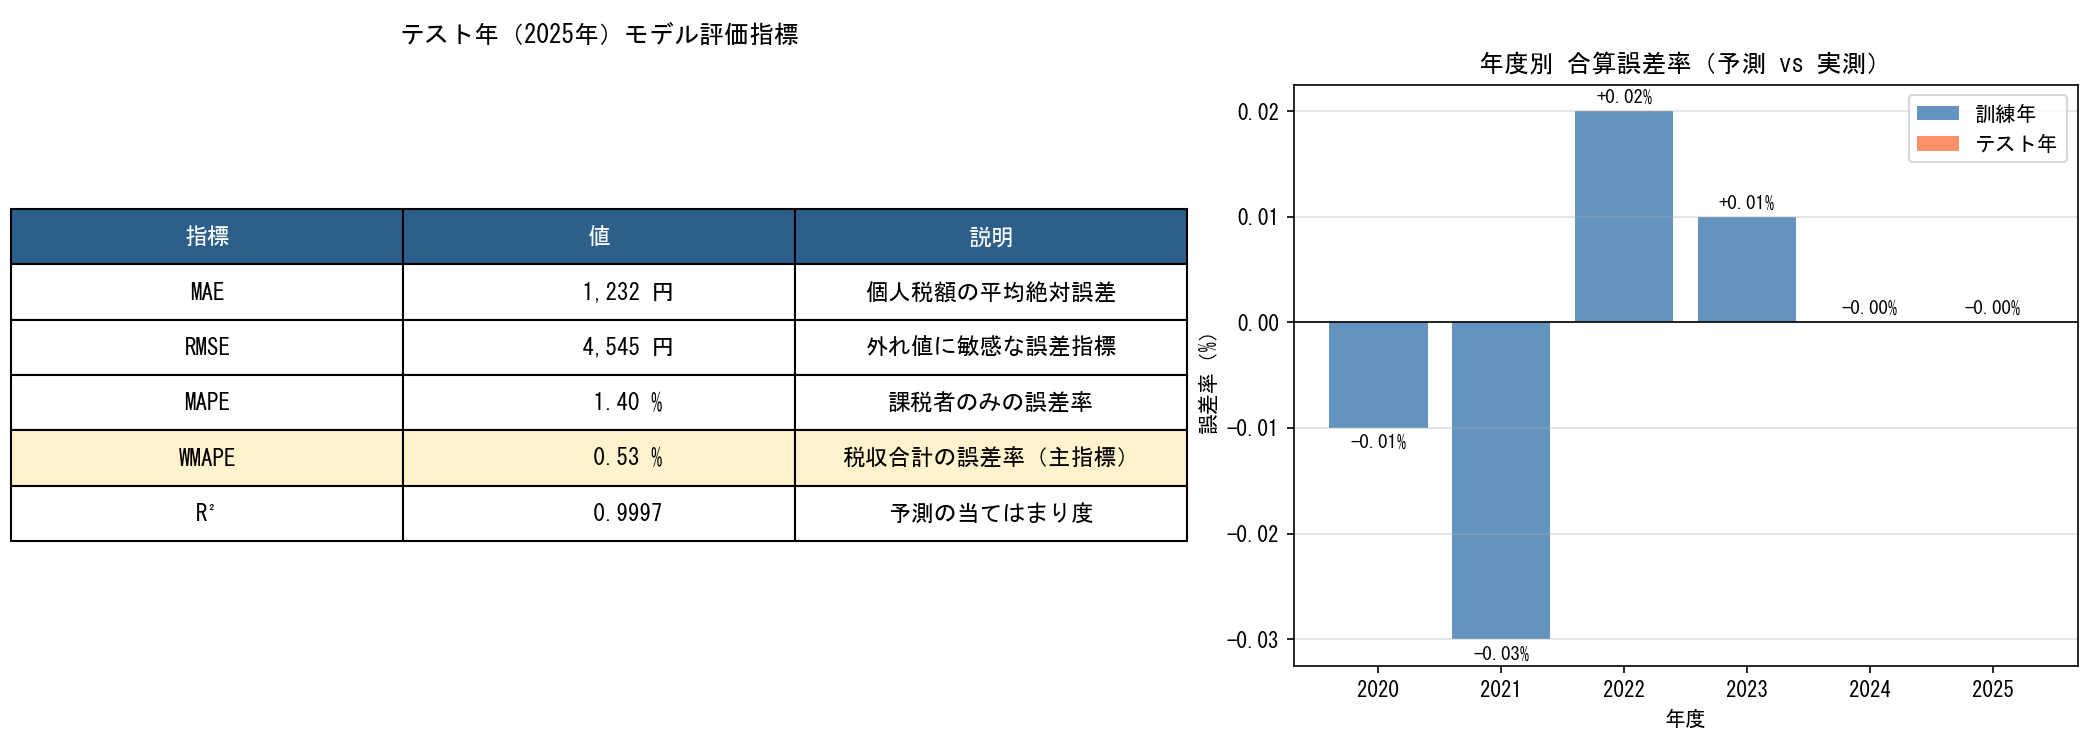
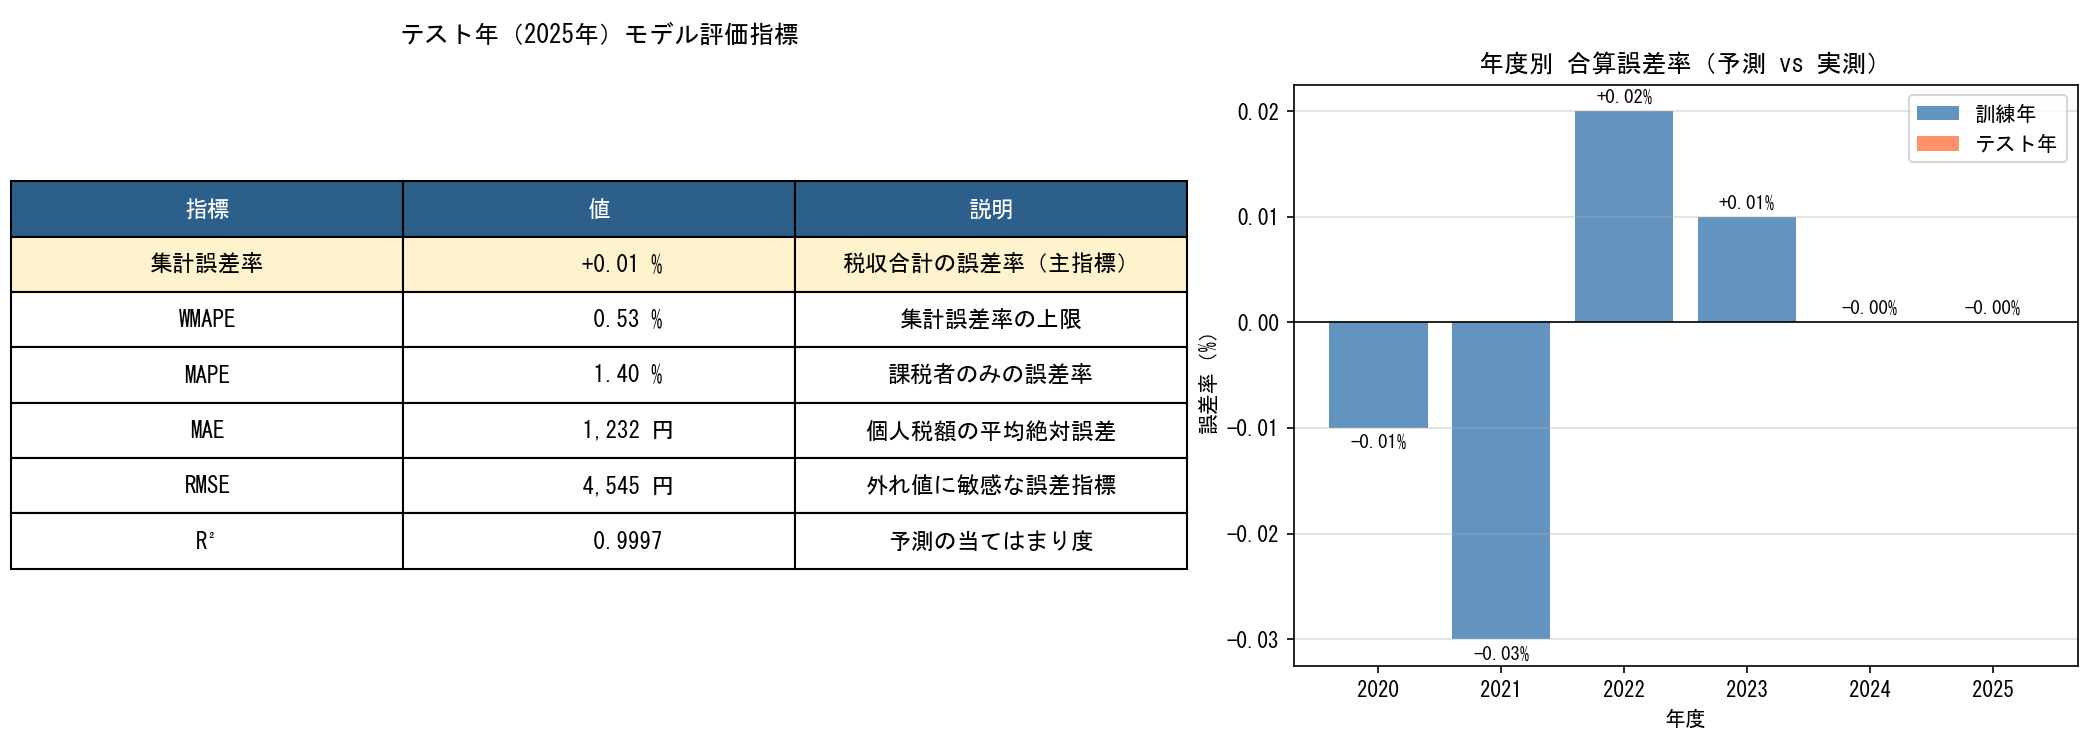
Clarify evaluation metrics: aggregate error rate as primary, WMAPE as its upper bound
- Add aggregate error rate to README metric tables and the fig5 table
- Explain MAPE (count-weighted) and WMAPE (tax-amount-weighted) in 04 comments and README
- Correct the statement that WMAPE equals the aggregate error rate

Changed region(s): [[0.0, 0.2147, 0.5881, 0.736], [0.3714, 0.736, 0.4024, 0.7667], [0.1857, 0.736, 0.2167, 0.7667]]

diff --git a/02_src_py/04_model_train.py b/02_src_py/04_model_train.py
@@ -57,14 +57,17 @@ WF_PATH     = "data/04out_walkforward_result.csv"
 
 # ─── 精度指標 ──────────────────────────────────────────────────────────────────
 
-## 課税者のみの MAPE（非課税者は除外）
+## 課税者1人ひとりの誤差率を同じ重みで平均（人数ベース）。
+## 実績0円は分母にできないため除外 → 非課税者を課税と誤予測しても反映されない。
+## 少額納税者のわずかな外れで大きくなりやすく、高額納税者の外れはほぼ効かない。
 def mape(y_true: np.ndarray, y_pred: np.ndarray) -> float:
     mask = y_true > 0
     return float(np.mean(np.abs((y_true[mask] - y_pred[mask]) / y_true[mask])) * 100)
 
-## 非課税者(0円)を含む加重平均絶対誤差率。集計誤差率と等価で税収予測の主指標。
+## Σ|誤差|÷Σ実績 ＝ 各人の誤差率を実績の税額で重み付けした平均（円ベース。税収と同じ視点）。
+## 0円の人の誤差も円で分子に入る。高額納税者の外れは税額に比例して効く（二乗するRMSEほどではない）。
+## 打ち消し合いを含まないため集計誤差率の上限（全員が同じ向きに外れた場合に一致）。主指標は集計誤差率。
 def wmape(y_true: np.ndarray, y_pred: np.ndarray) -> float:
-    """非課税者(0円)を含む加重平均絶対誤差率。集計誤差率と等価で税収予測の主指標。"""
     total = np.sum(np.abs(y_true))
     return float(np.sum(np.abs(y_true - y_pred)) / total * 100) if total > 0 else float("nan")
 
@@ -79,7 +82,7 @@ def print_metrics(label: str, y_true: np.ndarray, y_pred: np.ndarray) -> dict:
     print(f"    MAE   : {mae_val:>12,.0f} 円")
     print(f"    RMSE  : {rmse_val:>12,.0f} 円")
     print(f"    MAPE  : {mape_val:>8.2f} %  ← 課税者のみ（非課税除外）")
-    print(f"    WMAPE : {wmape_val:>8.2f} %  ← 非課税含む・集計誤差率と等価")
+    print(f"    WMAPE : {wmape_val:>8.2f} %  ← 非課税含む・集計誤差率の上限")
     print(f"    R2    : {r2_val:>8.3f}")
     return {"label": label, "MAE": mae_val, "RMSE": rmse_val,
             "MAPE": mape_val, "WMAPE": wmape_val, "R2": r2_val}

diff --git a/02_src_py/07_visualize.py b/02_src_py/07_visualize.py
@@ -294,6 +294,8 @@ def fig5_metrics_dashboard(val_df: pd.DataFrame, yearly_df: pd.DataFrame, show: 
     rmse  = np.sqrt((errors ** 2).mean())
     mape  = np.abs((y_pred[mask] - y_true[mask]) / y_true[mask]).mean() * 100 if mask.any() else float("nan")
     wmape = np.sum(np.abs(errors)) / np.sum(np.abs(y_true)) * 100 if y_true.sum() > 0 else float("nan")
+    # 集計誤差率（符号付き）: error = 予測 − 実績 なので + は過大予測。個人ごとの誤差のプラス・マイナスが打ち消し合う
+    agg   = errors.sum() / y_true.sum() * 100 if y_true.sum() > 0 else float("nan")
     ss_res = np.sum(errors ** 2)
     ss_tot = np.sum((y_true - y_true.mean()) ** 2)
     r2    = 1 - ss_res / ss_tot if ss_tot > 0 else float("nan")
@@ -304,10 +306,11 @@ def fig5_metrics_dashboard(val_df: pd.DataFrame, yearly_df: pd.DataFrame, show: 
     ax = axes[0]
     ax.axis("off")
     table_data = [
+        ["集計誤差率", f"{agg:>+9.2f} %", "税収合計の誤差率（主指標）"],
+        ["WMAPE", f"{wmape:>9.2f} %",  "集計誤差率の上限"],
+        ["MAPE",  f"{mape:>9.2f} %",   "課税者のみの誤差率"],
         ["MAE",   f"{mae:>10,.0f} 円", "個人税額の平均絶対誤差"],
         ["RMSE",  f"{rmse:>10,.0f} 円", "外れ値に敏感な誤差指標"],
-        ["MAPE",  f"{mape:>9.2f} %",   "課税者のみの誤差率"],
-        ["WMAPE", f"{wmape:>9.2f} %",  "税収合計の誤差率（主指標）"],
         ["R²",    f"{r2:>11.4f}",      "予測の当てはまり度"],
     ]
     table = ax.table(
@@ -322,8 +325,8 @@ def fig5_metrics_dashboard(val_df: pd.DataFrame, yearly_df: pd.DataFrame, show: 
     for j in range(3):
         table[(0, j)].set_facecolor("#2c5f8a")
         table[(0, j)].set_text_props(color="white", fontweight="bold")
-    for j in range(3):  # WMAPE 行をハイライト（ヘッダー含め4行目 = index 4）
-        table[(4, j)].set_facecolor("#fff3cd")
+    for j in range(3):  # 主指標の集計誤差率の行をハイライト（ヘッダーの次 = index 1）
+        table[(1, j)].set_facecolor("#fff3cd")
     ax.set_title(f"テスト年（{test_year}年）モデル評価指標",
                  fontsize=12, fontweight="bold", pad=20)
 

diff --git a/README.md b/README.md
@@ -46,7 +46,7 @@
 
 - **住民税の計算体系が非線形かつ階段状であること**：所得控除・扶養控除・非課税基準（地方税法第295条）はいずれも「ある所得水準を境に控除額や課税可否が切り替わる」階段関数的な構造を持つ。決定木ベースのモデルは分割（split）によってこうした閾値構造を自然に表現できるのに対し、線形回帰・ロジスティック回帰で同等の精度を出すには閾値ごとの特徴量を人手で作り込む必要があり、保守性が低い。
 - **決定木は単調変換に対して分割が不変であること**：LightGBMの分割基準は値の大小関係のみに依存し、ヒストグラムビニングも分布密度に応じて決まるため、**説明変数側への対数変換等の前処理が基本的に不要**である。実データは自治体ごとに分布特性が異なりうるため、前処理を最小限にできる利点は大きい。
-- **外れ値への一定の耐性**：高所得者等の外れ値は個人MAPEを押し上げるが、集計WMAPE（税収予測の主指標）への影響は相殺されやすい。ただし目的変数（年税額）自体の分布は歪度が大きい右裾分布になりやすいため、`04`/`05`の`--target-transform`（none/log/winsorize/log_winsorize）で目的変数側の変換のみを選択できるようにしている。
+- **外れ値への一定の耐性**：高所得者等の外れ値は個人単位の誤差（RMSE・WMAPE）を押し上げるが、税収予測の主指標である集計誤差率（予測合計と実績合計の差）への影響は、個人ごとの誤差のプラス・マイナスが相殺されるため小さくなりやすい。ただし目的変数（年税額）自体の分布は歪度が大きい右裾分布になりやすいため、`04`/`05`の`--target-transform`（none/log/winsorize/log_winsorize）で目的変数側の変換のみを選択できるようにしている。
 - **予測後の後処理でモデルの限界を補完する設計**：木モデルの回帰予測は連続値であるため、非課税境界付近の課税者に対して理論上あり得ない低額を予測することがある。そのため予測後に
   1. 課税者の理論下限（均等割の固定額＝`MIN_TAX`）でクリップ
   2. 非課税基準（地方税法295条）に該当する人を強制的に0円へ上書き
@@ -216,13 +216,14 @@ Windows PowerShellでも同じコマンドがそのまま使用可能
 
 ### 評価指標（TRAIN in-sample / ウォークフォワード最終フォールド TEST out-of-sample）
 
-| 指標 | TRAIN（2020〜2025 in-sample） | TEST（fold4: train=2020〜2024→test=2025） | 備考 |
-|---|---|---|---|
-| WMAPE | 0.48% | 0.53% | 非課税者含む集計誤差率 |
-| MAPE | 1.61% | 1.40% | 課税者のみ |
-| MAE | 972円 | 1,232円 | |
-| RMSE | 2,338円 | 4,545円 | |
-| R² | 1.000 | 1.000 | |
+| 指標 | TRAIN（2020〜2025 in-sample） | TEST（fold4: train=2020〜2024→test=2025） | 備考 | 位置づけ |
+|---|---|---|---|---|
+| 集計誤差率 | -0.00% | +0.01% | （予測合計−実績合計）÷実績合計。符号付きのため、個人ごとの誤差のプラス・マイナスが打ち消し合う | **主指標**：税収見込みの精度そのもの |
+| WMAPE | 0.48% | 0.53% | 非課税者含む。Σ\|誤差\|÷Σ実績 ＝ 各人の誤差率を実績の税額で重み付けした平均。集計誤差率の上限（全員が同じ向きに外れた場合に一致） | 円ベース：税収のうち何円分を個人に誤って割り振ったか。高額納税者の外れは税額に比例して効く |
+| MAPE | 1.61% | 1.40% | 課税者のみ（実績0円は分母にできないため除外）。各人の誤差率を同じ重みで平均 | 参考：人数ベースで、一般の納税者1人ひとりの当たり具合。少額納税者の外れで大きくなり、非課税者の誤予測は反映されない |
+| MAE | 972円 | 1,232円 | | 特定の目的でのみ使用：1人あたり平均何円外れるかの把握。税収合計の精度判断には使わない |
+| RMSE | 2,338円 | 4,545円 | | 特定の目的でのみ使用：高額納税者など大きな外れの荒れ具合の確認。外れ値に引っ張られるため、税収合計の精度判断には使わない |
+| R² | 1.000 | 1.000 | | 参考 |
 
 > `--retrain-all`モードの仕様上、TRAIN列は`TRAIN_YEARS`+`TEST_YEAR`全年度を使った最終モデルのin-sample評価、TEST列はウォークフォワード最終フォールド（fold4）のout-of-sample評価であり、異なるモデルの数値である点に注意。
 
@@ -281,13 +282,14 @@ Windows PowerShellでも同じコマンドがそのまま使用可能
 
 ### 評価指標（TRAIN / TEST）
 
-| 指標 | TRAIN | TEST | 備考 |
-|---|---|---|---|
-| WMAPE | （記入予定） | （記入予定） | 非課税者含む集計誤差率 |
-| MAPE | （記入予定） | （記入予定） | 課税者のみ |
-| MAE | （記入予定） | （記入予定） | 円 |
-| RMSE | （記入予定） | （記入予定） | 円 |
-| R² | （記入予定） | （記入予定） | |
+| 指標 | TRAIN | TEST | 備考 | 位置づけ |
+|---|---|---|---|---|
+| 集計誤差率 | （記入予定） | （記入予定） | （予測合計−実績合計）÷実績合計。符号付き | **主指標**：税収見込みの精度そのもの |
+| WMAPE | （記入予定） | （記入予定） | 非課税者含む。各人の誤差率を実績の税額で重み付けした平均。集計誤差率の上限 | 円ベース：税収のうち何円分を個人に誤って割り振ったか。高額納税者の外れは税額に比例して効く |
+| MAPE | （記入予定） | （記入予定） | 課税者のみ（実績0円は除外）。各人の誤差率を同じ重みで平均 | 参考：人数ベースで、一般の納税者1人ひとりの当たり具合。少額納税者の外れで大きくなり、非課税者の誤予測は反映されない |
+| MAE | （記入予定） | （記入予定） | 円 | 特定の目的でのみ使用：1人あたり平均何円外れるかの把握。税収合計の精度判断には使わない |
+| RMSE | （記入予定） | （記入予定） | 円 | 特定の目的でのみ使用：高額納税者など大きな外れの荒れ具合の確認。外れ値に引っ張られるため、税収合計の精度判断には使わない |
+| R² | （記入予定） | （記入予定） | | 参考 |
 
 
 ### 年度別合算精度（`04`最終モデルによる in-sample、参考値）
@@ -300,6 +302,14 @@ Windows PowerShellでも同じコマンドがそのまま使用可能
 | 2023 | 非公開 | 非公開 | +0.01% |
 | 2024 | 非公開 | 非公開 | -0.00% |
 | 2025 | 非公開 | 非公開 | -0.00% |
+
+### 2026年度予測サマリー（`05`→`06`）
+
+| 項目 | 値 |
+|---|---|
+| 2026年度 税収合計予測 | 前年比 +xxx% |
+| 2026年度 税収合計実数との誤差 | % |
+
 
 
 ### 所見・特記事項
@@ -444,12 +454,14 @@ Windows PowerShellでも同じコマンドがそのまま使用可能
 
 | 指標 | 意味 | 役割 |
 |---|---|---|
+| 集計誤差率 | （予測合計−実績合計）÷ 実績合計（符号付き） | **税収予測の主指標** |
+| WMAPE | 誤差の絶対値の合計 ÷ 実績の合計（非課税者含む）＝ 各人の誤差率を実績の税額で重み付けした平均 | 円ベース。集計誤差率の上限。個人への税額の割り振りの正確さ |
 | MAE | 個人1人あたりの予測誤差（円） | 誤差の絶対規模の把握 |
-| WMAPE | 集計レベルの誤差率（非課税者含む） | **税収予測の主指標** |
-| MAPE | 課税者のみの誤差率 | 参考指標 |
+| RMSE | 誤差の二乗平均の平方根（円） | 大きな外れ（高額納税者など）の荒れ具合の確認 |
+| MAPE | 課税者1人ひとりの誤差率の単純平均（実績0円は除外） | 参考指標：人数ベースの当たり具合。少額納税者の外れで大きくなり、非課税者の誤予測は反映されない |
 | R² | 予測の当てはまり度（1.0が完全一致） | 参考指標 |
 
-> **WMAPEを主指標とする理由**：非課税者（税額=0円）を含む全体で集計したときの誤差率であり、自治体が管理する「税収合計」の予測精度と等価である。
+> **集計誤差率を主指標とする理由**：自治体が必要とするのは「税収合計」の精度であり、予測合計と実績合計の差をそのまま表すため。WMAPEは個人ごとの誤差の絶対値を合計するため打ち消し合いを含まず、集計誤差率の上限になる（全員が同じ向きに外れた場合に一致）。そのため WMAPE は、個人への税額の割り振りの正確さを見る指標として併記している。
 
 **留意点**
 
